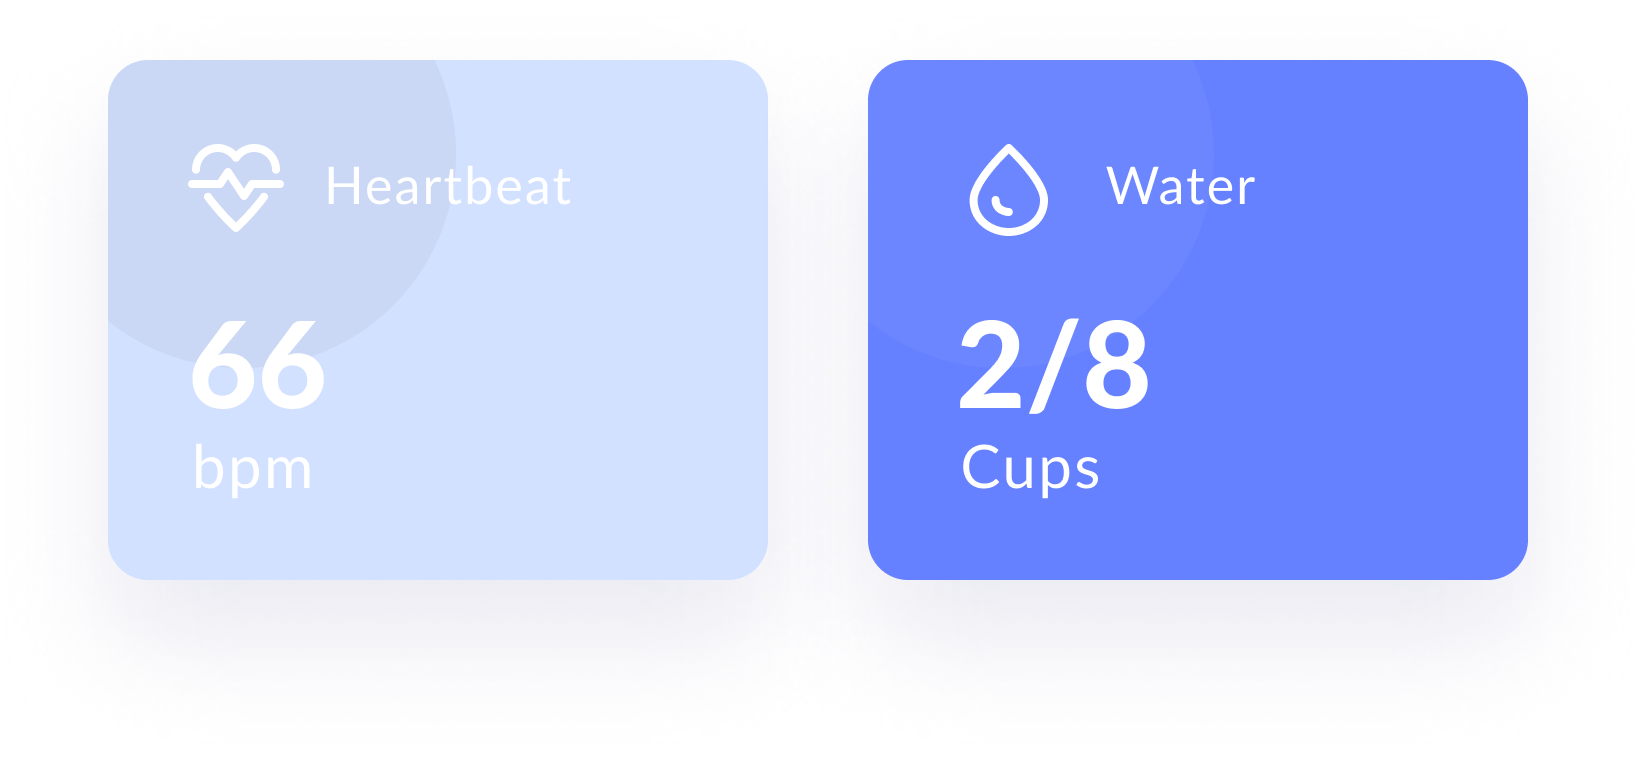
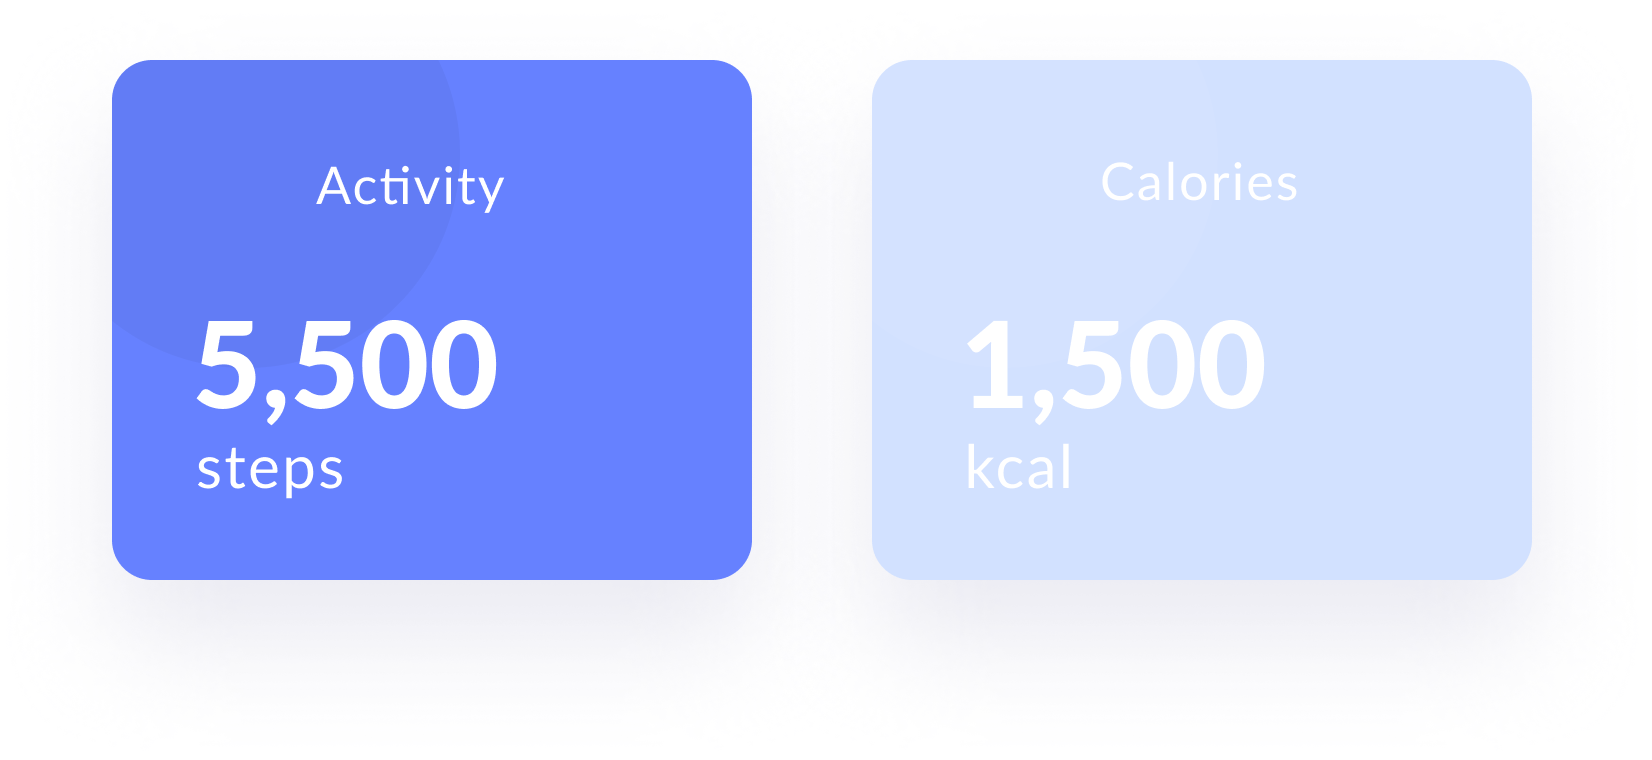
Finished Health insights

diff --git a/screens/HealthInsights.tsx b/screens/HealthInsights.tsx
@@ -8,19 +8,31 @@ export default function HealthInsights(){
         <View style={styles.container}>
             <View style={styles.table}>
                 <View style={styles.row}>
-                    <View style={styles.item}>
-
+                    <View style={{...styles.item, backgroundColor: "#D2E1FF"}}>
+                    <Image style={{height:"100%", width:"100%", borderRadius: 15}}
+                        source={require("../assets/images/Heartbeat.png")}
+                        resizeMode="contain">
+                        </Image>
                     </View>
                     <View style={styles.item}>
-                        <Text>2</Text>
+                        <Image style={{height:"100%", width:"100%", borderRadius: 15}}
+                        source={require("../assets/images/Water.png")}
+                        resizeMode="contain">
+                        </Image>
                     </View>
                 </View>
                 <View style={styles.row}>
                     <View style={styles.item}>
-                        <Text>3</Text>
+                        <Image style={{height:"100%", width:"100%", borderRadius: 15}}
+                        source={require("../assets/images/Activity.png")}
+                        resizeMode="contain">
+                        </Image>
                     </View>
-                    <View style={styles.item}>
-                        <Text>4</Text>
+                    <View style={{...styles.item, backgroundColor: "#D2E1FF"}}>
+                        <Image style={{height:"100%", width:"100%", borderRadius: 15}}
+                        source={require("../assets/images/Calories.png")}
+                        resizeMode="contain">
+                        </Image>
                     </View>
                 </View>
             </View>
@@ -28,7 +40,7 @@ export default function HealthInsights(){
                 <Image style={{height:"100%", width:"100%", borderRadius: 15}}
                 source={require("../assets/images/combinedCharts.png")}
                 resizeMode="contain">
-                    </Image>
+                </Image>
             </View>
         </View>
     )
@@ -60,7 +72,7 @@ const styles = StyleSheet.create({
     item: {
         width: 165,
         height: 130,
-        borderRadius: 10,
+        borderRadius: 15,
         backgroundColor: "#6681FF",
         shadowColor: '#000',
         shadowOffset: { width: 0, height: 1 },
